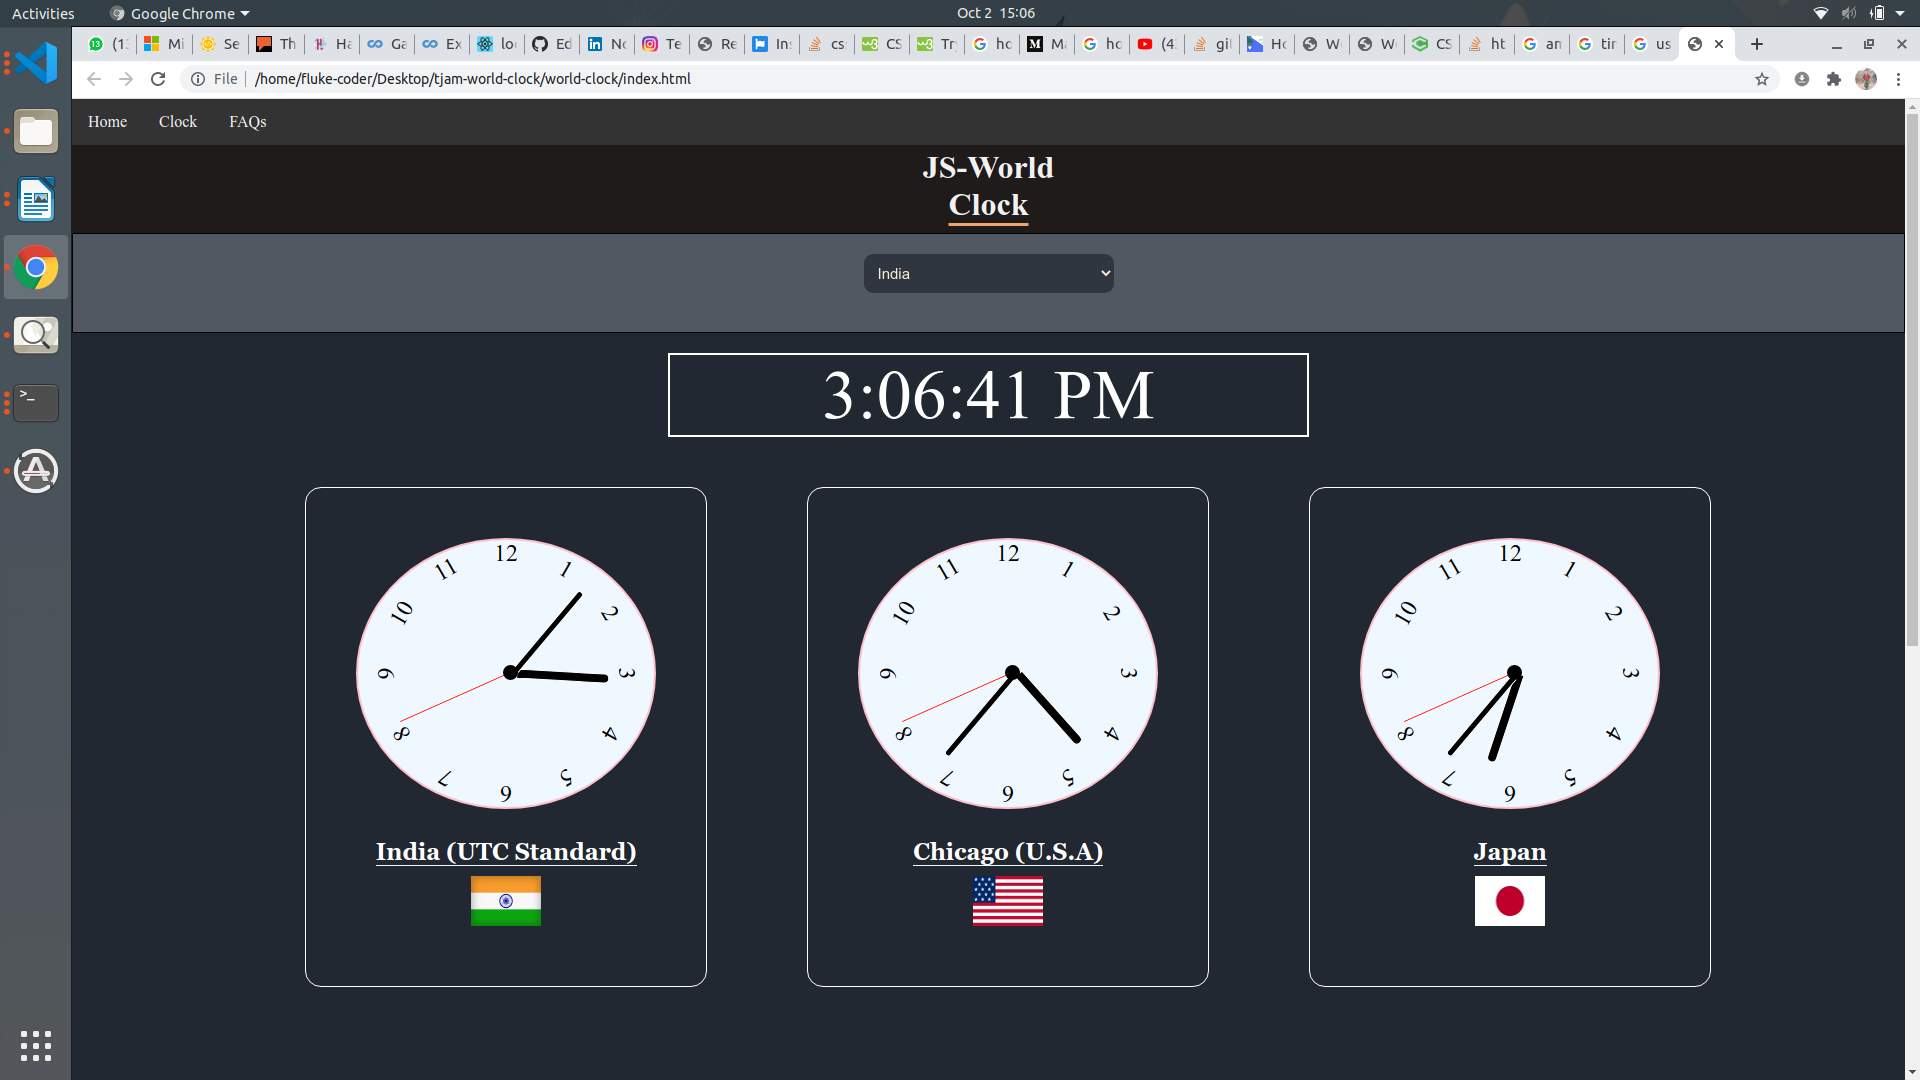
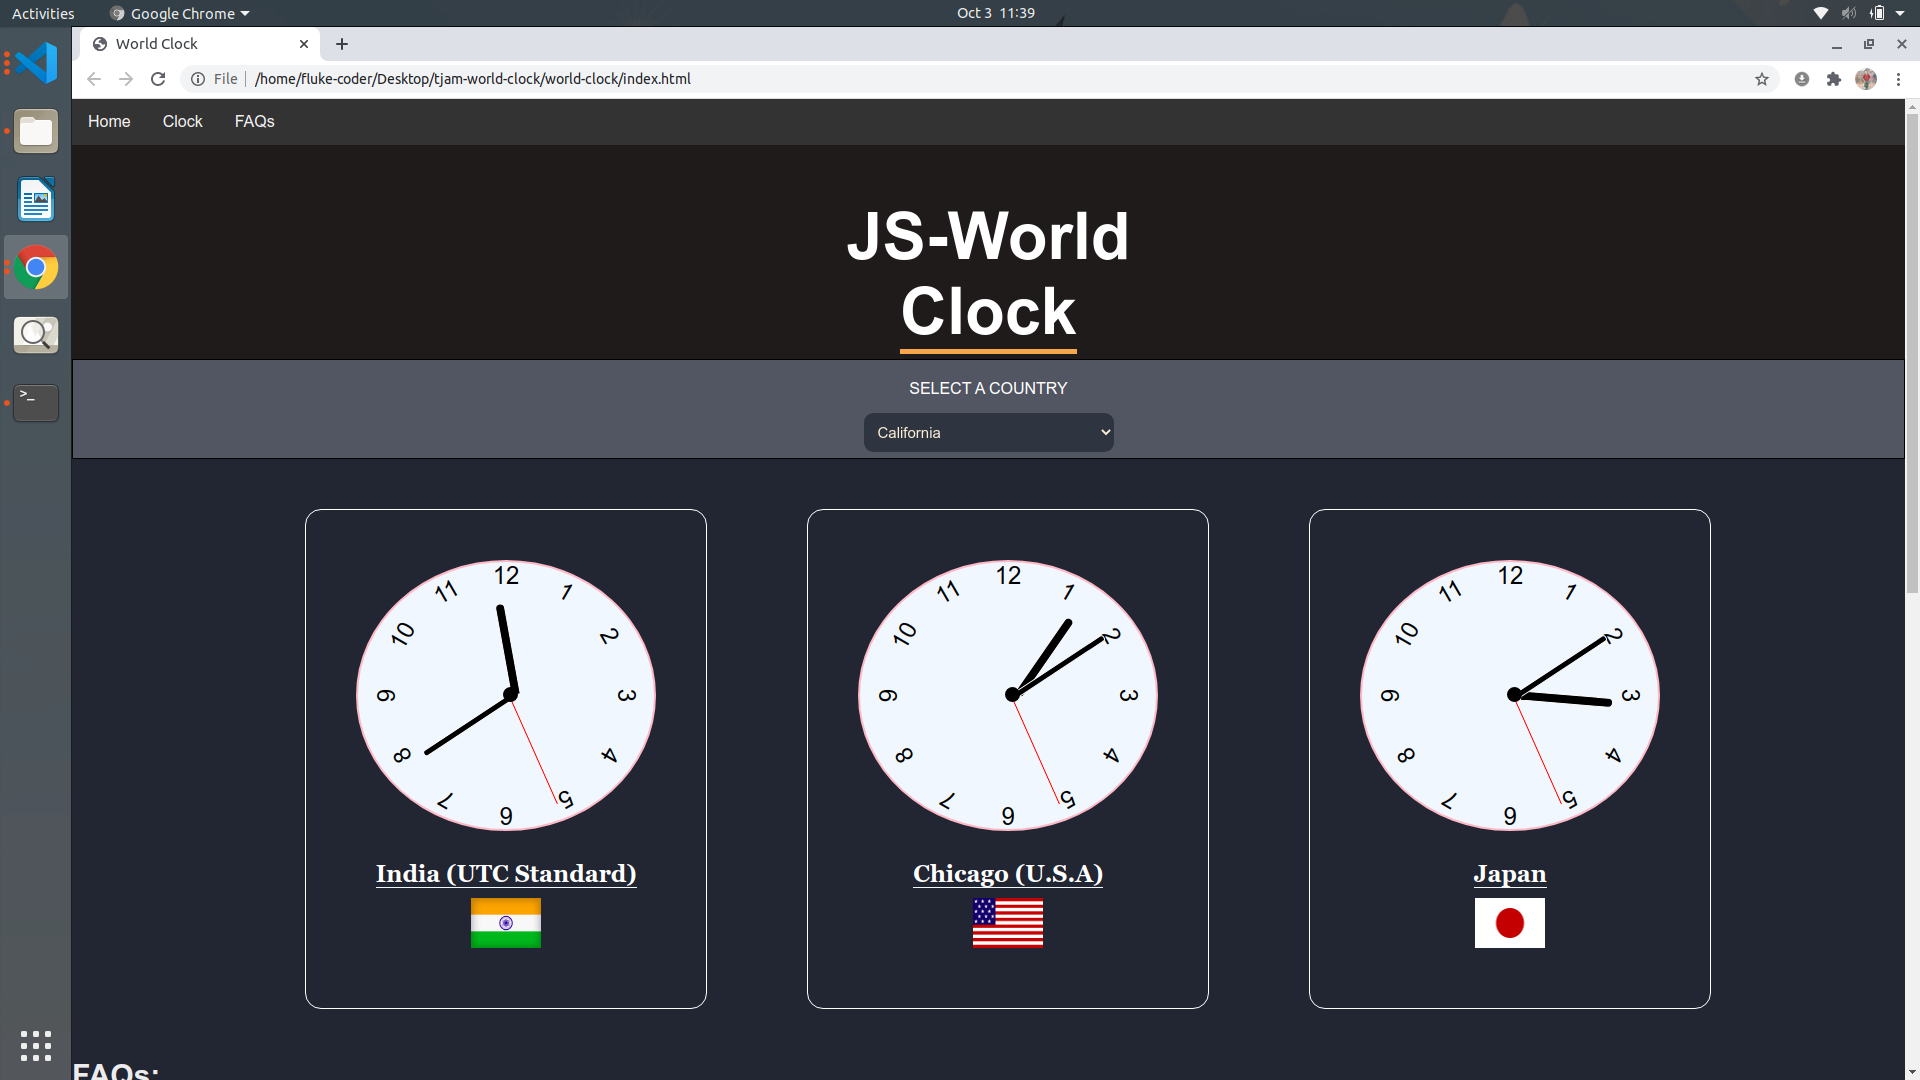
Removed digital clock and added modal to show the clock, updated readme and screenshots respectively

diff --git a/main.js b/main.js
@@ -2,27 +2,39 @@
 function showTime() {
 	d = new Date(); //Getting the local date object
 
+	countryName = document.getElementById('country-name')
+
 	utc = d.getTime() + d.getTimezoneOffset() * 60000; //converting the time to gmt and in miliseconds for easier conversion of time for different countries
 
 	checkDropdown = document.getElementById("list").value; // getting the value of the selected country
+
+	modalBg = document.getElementsByClassName('modal-content');
 
 	var session = "AM";
 
 	if (checkDropdown == "india") {
 		nd = new Date(utc + 3600000 * 5.5); // create new object of the date according to chosen country
+		countryName.innerHTML = 'India';
 	} else if (checkDropdown == "california") {
+		countryName.innerHTML = 'California';
 		nd = new Date(utc + 3600000 * -7);
 	} else if (checkDropdown == "newYork") {
+		countryName.innerHTML = 'New York';
 		nd = new Date(utc + 3600000 * -4);
 	} else if (checkDropdown == "japan") {
+		countryName.innerHTML = 'Japan';
 		nd = new Date(utc + 3600000 * 9);
 	} else if (checkDropdown == "uae") {
+		countryName.innerHTML = 'UAE';
 		nd = new Date(utc + 3600000 * 4);
 	} else if (checkDropdown == "moscow") {
+		countryName.innerHTML = 'Moscow';
 		nd = new Date(utc + 3600000 * 3);
 	} else if (checkDropdown == "france") {
+		countryName.innerHTML = 'France';
 		nd = new Date(utc + 3600000 * 2);
 	} else if (checkDropdown == "africa") {
+		countryName.innerHTML = 'Africa';
 		nd = new Date(utc + 3600000 * 2);
 	}
 
@@ -35,6 +47,7 @@ function showTime() {
 		var t = parseInt(ans[0]) - 12;
 		ans[0] = t.toString();
 		session = "PM";
+
 	}
 
 	if (ans[0] == 0) {
@@ -44,9 +57,11 @@ function showTime() {
 	res[1] = ans.join(":");
 
 	document.getElementById("clock").innerHTML = res[1] + " " + session;
+	
 	setTimeout(showTime, 1000);
 }
 showTime();
+
 
 //Analog Clock
 setInterval(setClock, 1000);
@@ -108,3 +123,20 @@ $('.acc h3').click(function(){
 	$(this).parent().siblings().removeClass('active');
 });
 
+const btn = document.getElementById('list');
+const modal = document.getElementById('modal');
+const span = document.getElementsByClassName('close')[0];
+
+span.onclick = function(){
+	modal.style.display = "none";
+}
+
+btn.onclick = function(){
+	modal.style.display = "block";
+}
+
+window.onclick = function(event) {
+	if (event.target == modal) {
+	  modal.style.display = "none";
+	}
+  }

diff --git a/index.html b/index.html
@@ -8,6 +8,7 @@
 			type="image/x-icon"
 			href="docs/images/favicon.ico"
 		/>
+		<link href="https://fonts.googleapis.com/css2?family=Alef&display=swap" rel="stylesheet">
 		<link rel="stylesheet" href="https://stackpath.bootstrapcdn.com/font-awesome/4.7.0/css/font-awesome.min.css" integrity="sha384-wvfXpqpZZVQGK6TAh5PVlGOfQNHSoD2xbE+QkPxCAFlNEevoEH3Sl0sibVcOQVnN" crossorigin="anonymous">
 		<link
 			rel="stylesheet"
@@ -39,21 +40,30 @@
 		</header>
 		<nav class="navigation_bar">
 			<ul class="nav">
+				<div class="select">Select a Country</div>
 				<div class="box">
 					<select id="list">
-						<option value="india">India</option>
-						<option value="california">California</option>
-						<option value="newYork">New York(U.S.A)</option>
-						<option value="japan">Japan</option>
-						<option value="uae">United Arab Emirates(U.A.E)</option>
-						<option value="moscow">Moscow(Russia)</option>
-						<option value="france">France</option>
-						<option value="africa">Africa(central)</option>
+						<option class="country" value="india">India</option>
+						<option  class="country" value="california">California</option>
+						<option  class="country" value="newYork">New York(U.S.A)</option>
+						<option  class="country" value="japan">Japan</option>
+						<option  class="country" value="uae">United Arab Emirates(U.A.E)</option>
+						<option  class="country" value="moscow">Moscow(Russia)</option>
+						<option  class="country" value="france">France</option>
+						<option  class="country" value="africa">Africa(central)</option>
 					</select>
 				</div>
 			</ul>
 		</nav>
-		<div id="clock">10:10:01</div>
+		<div id="modal" class="modal">
+			<div class="modal-content">
+				<span class="close">&times;</span>
+				<div id="country-name">
+				</div>
+				<div id="clock">10:10:01</div>
+			</div>
+		</div>
+		
 
 		<!-- analog clock -->
 		<div id="alignment">

diff --git a/css/Style.css b/css/Style.css
@@ -68,6 +68,7 @@ header {
     display:grid;
     justify-content: center;
     margin:15px;
+    margin-top: 10px;
     font-size: 20px;
 }
 .box select{
@@ -88,15 +89,15 @@ p{
 }
 /*Analog clock styling*/
 #clock{
-    width: 35%;
+    width: 80%;
     margin: auto;
     margin-top: 20px;
     font-size: 70px;
-    border: 2px solid white;
+    border: 2px solid black;
     align-items: center;
     text-align: center;
     align-items: center;
-    color: white;
+    color: black;
 }
 /*Map Styling*/
 #map{
@@ -166,7 +167,6 @@ select{
 /*FAQs section*/
 .faq{
     color: #ececec;
-    
     text-decoration: underline;
     text-decoration-color: #f2a365;
     font-size: 30px;
@@ -227,4 +227,43 @@ h1 {
 
 .acc {
     border-bottom: 1px solid #fff;
+}
+
+.modal{
+    display: none;
+    text-align: center;
+    position : fixed;
+    top:0;
+    left: 0;
+    z-index: 1;
+    width: 100%;
+    height: 100%;
+    background-color: rgba(0,0,0,0.4);
+}
+
+.modal-content{
+    background:linear-gradient(rgba(255, 255, 255,0.8),rgba(102, 204, 255,0.8));
+    margin: 15% auto; /* 15% from the top and centered */
+    padding: 20px;
+    border: 1px solid #888;
+    border-radius: 1em;
+    width: 30%;
+}
+
+.close{
+    color: #aaaaaa;
+    float: right;
+    font-size: 28px;
+    font-weight: bold;
+}
+
+.select{
+    margin-top: 20px;
+    margin-bottom: 0;
+    color: white;
+}
+
+#country-name{
+    font-size: 28px;
+    font-family: 'Alef','sans-serif';
 }

diff --git a/README.md b/README.md
@@ -23,3 +23,4 @@ dropdown list. It shows the time in digital format.
 ## Screenshots
 ![About Page](https://github.com/Aditya-shrivastav/world-clock/blob/master/images/world-clock-ss.png)
 ![About Page](https://github.com/mohitbhata12/world-clock/blob/master/images/World_clock.png)
+![About Page](https://github.com/Aditya-shrivastav/world-clock/blob/master/images/world-clock-modal.png)
